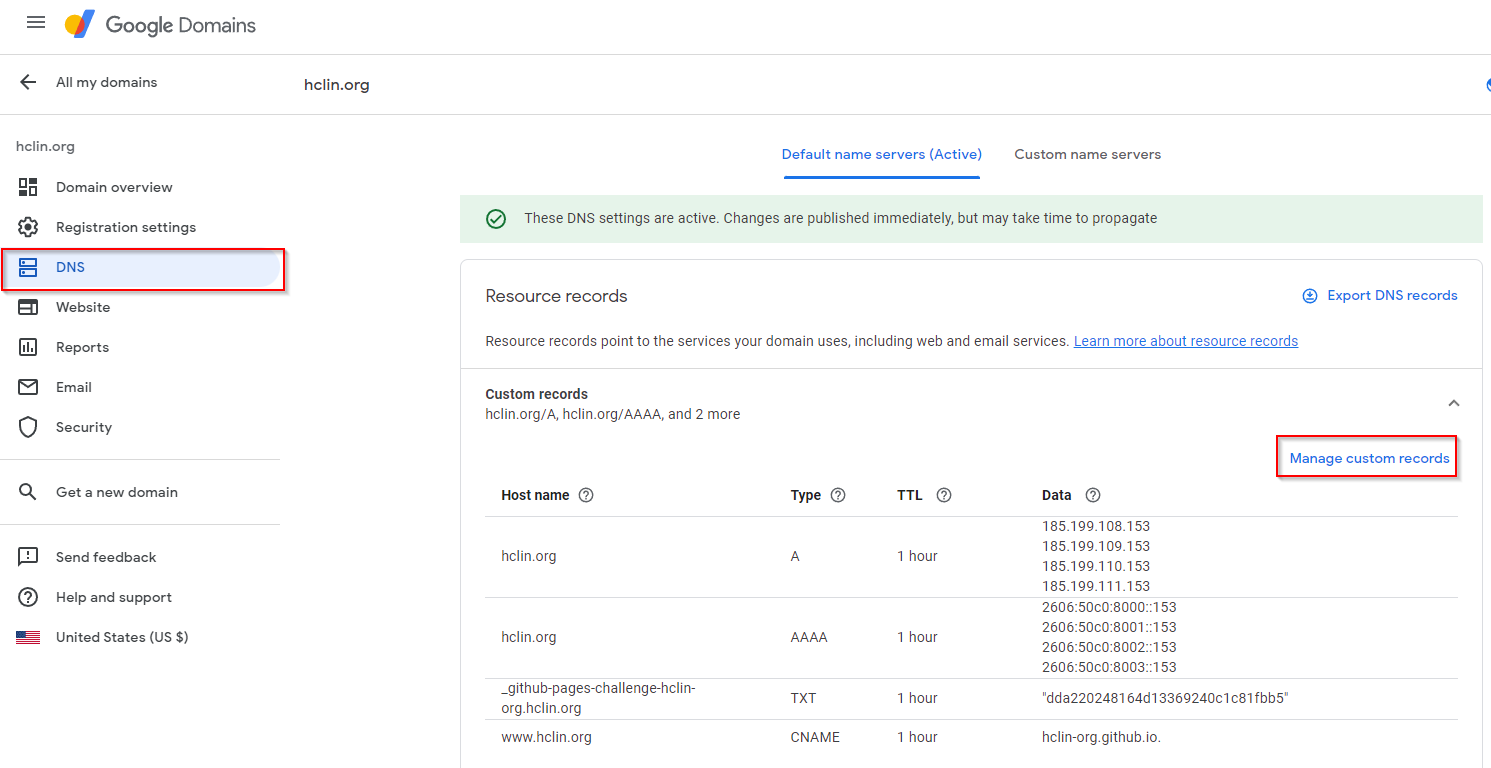
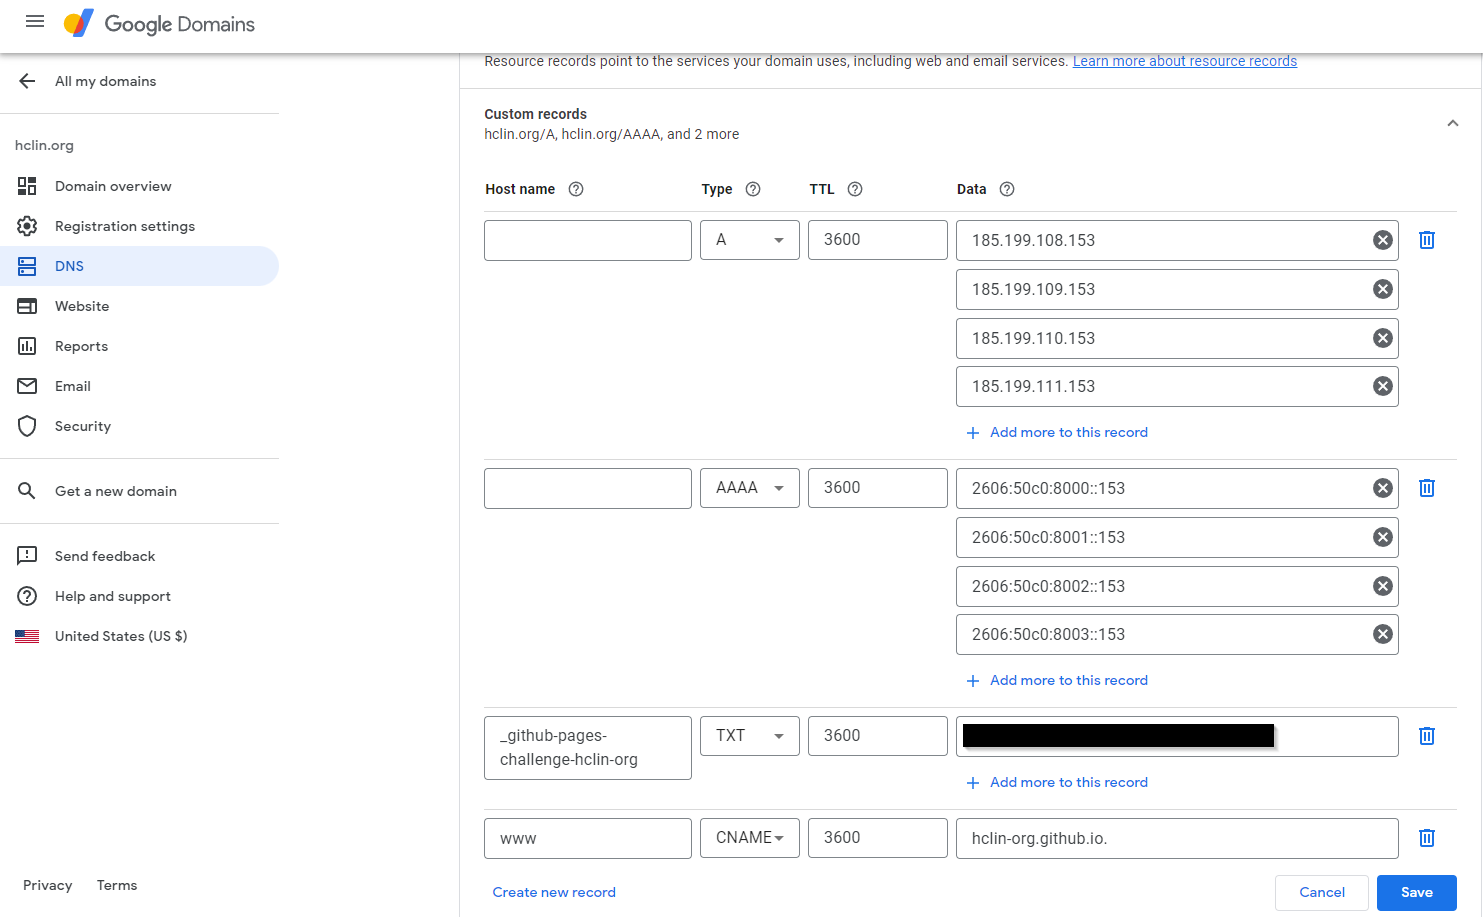
Blog updates

diff --git a/_posts/2022-06-07-setting up a personal academic website with a custom domain.md b/_posts/2022-06-07-setting up a personal academic website with a custom domain.md
@@ -4,14 +4,14 @@ title: Setting up a personal academic website with a custom domain
 description: "Setting up a personal academic website with a custom domain"
 ---
 
-I have been longed for my personal academic website to share my CV and an introduction to my research interests. However, I did not know what to do with this idea because it looked challenging to strike a balance between cost and performance. On the one hand, as a PhD student, I was hesitant on monthly subscription to hosting services. On the other hand, I do not feel confident to manage the technical parts of self-hosting and keep it from security vulnerabilities. This summer, I came across the idea of GitHub Pages together with static site generators. I decided to give it a try as it incurs minimal costs - in terms of money and time alike - and great performance. Also, it allows for custom domains. I based my experiment on the manual by [Jordi Pont-Tuset](https://jponttuset.cat/building-an-academic-website/). To configure my personal domain, I referred to the instructions of [GitHub Docs](https://docs.github.com/en/pages/configuring-a-custom-domain-for-your-github-pages-site/managing-a-custom-domain-for-your-github-pages-site) and [Google Domains](https://domains.google.com). Below, I will share some of the glitches I encountered and how I solved them, and I hope these may be helpful for you with troubleshooting when building a Jekyll website on GitHub Pages.
+I have longed for a personal academic website to share my CV and research interests. However, I did not know what to do with this idea because it looked challenging to balance cost and performance. On the one hand, as a PhD student, I hesitated to subscribe to hosting services, which is typically $5 to $10 per month, on top of $10 to $20 for a custom domain. On the other hand, I do not feel confident in managing the technical parts of self-hosting, particularly keeping my website from security vulnerabilities. This summer, I came across the idea of combining GitHub Pages, the free web hosting, with Jekyll, the static site generators. I decided to give it a try as it incurs minimal monetary and time costs and delivers great performance. Also, it allows for custom domains. I based my experiment on the manual by [Jordi Pont-Tuset](https://jponttuset.cat/building-an-academic-website/). To configure my personal domain, I referred to the instructions of [GitHub Docs](https://docs.github.com/en/pages/configuring-a-custom-domain-for-your-github-pages-site/managing-a-custom-domain-for-your-github-pages-site) and [Google Domains](https://domains.google.com). Below, I will share some of the glitches I encountered and how I solved them, and I hope these may be helpful for you with troubleshooting when building a Jekyll website on GitHub Pages.
 
 <br />
 ## Don't panic if the newly forked site is not working: it takes *commit*
 As Jordi suggested, I forked his website on GitHub, so I had the repository (Jekyll) needed to make my own website. However, the forked website did not work on my GitHub pages. I learned that any change, e.g., adding a space or a line in README.md, can "commit" the changes and render the website. After I made a random change to the README.md, my forked website started to run!
 
 ## Adding a custom domain does take multiple steps
-I wanted to use my domain name linking to my website hosted on GitHub Pages. First, I went to my Jekyll repository on GitHub and clicked **setting**. On the left panel, there was **Pages** in the category **Code and automation**. Click it, type your domain in the **Custom Domain**, and save the settings. GitHub suggested me make relevant changes in my domain registrar.
+I wanted to use my domain name linking to my website hosted on GitHub Pages. First, I went to my Jekyll repository on GitHub and clicked **setting**. On the left panel, there was **Pages** in the category **Code and automation**. Click it, type your domain in the **Custom Domain**, and save the settings. GitHub suggested I make relevant changes in my domain registrar.
 
 ![setting_domain_01](/images/setting_domain_01.png)
 
@@ -23,25 +23,23 @@ Later, I clicked **DNS** on the left panel and, subsequently, **Manage custom re
 
 ![setting_domain_03](/images/setting_domain_03.png)
 
-![setting_domain_04](/images/setting_domain_04.png)
-
-As I wanted to use apex domain and a www subdomain to reach my website, i.e., people could find my website at both *hclin.org* and *www.hclin.org*, I must add A and CNAME records to my DNS configuration. I also added the AAAA entry for IPv6 compatability. The purpose of the entries is to make my domain linked to the GitHub servers that house my website.
+As I wanted to use apex domain and a www subdomain to reach my website, i.e., people could find my website at both *hclin.org* and *www.hclin.org*, I must add A and CNAME records to my DNS configuration. I also added the AAAA entry for IPv6 compatibility. The purpose of the entries is to make my domain linked to the GitHub servers that house my website.
 
 For the apex domain, the host name was blank, and the type was *A*. I did not change the default TTL. In the data column, I entered the four IPs in respective entries:
-> 185.199.108.153
-> 185.199.109.153
-> 185.199.110.153
-> 185.199.111.153
+>> 185.199.108.153
+>> 185.199.109.153
+>> 185.199.110.153
+>> 185.199.111.153
 
-For the www subdomain, I entered *www* in the host name, and the type was *CNAME*. I did not change the default TTL, either. In the data column, I entered *<yourgithubid>.github.io*.
+For the www subdomain, I entered *www* in the host name, and the type was *CNAME*. I did not change the default TTL, either. In the data column, I entered *yourgithubid.github.io*.
 
-I also created another entry for IPv6 compatibility. This was similar to the previous type A setting. However, the type should be *AAAA*, instead. The data entries were the four IPv6 address: 
+I also created another entry for IPv6 compatibility. This was similar to the previous type A setting. However, the type should be *AAAA*, instead. The data entries were the four IPv6 addresses: 
 
-> 2606:50c0:8000::153
-> 2606:50c0:8001::153
-> 2606:50c0:8002::153
-> 2606:50c0:8003::153
+>> 2606:50c0:8000::153
+>> 2606:50c0:8001::153
+>> 2606:50c0:8002::153
+>> 2606:50c0:8003::153
 
-![setting_domain_05](/images/setting_domain_05.png)
+![setting_domain_05](/images/setting_domain_04.png)
 
-After saving these settings in Google Domains, I got back to the GitHub settings, and the custom domain worked. I also [verified my domain](https://docs.github.com/en/pages/configuring-a-custom-domain-for-your-github-pages-site/verifying-your-custom-domain-for-github-pages) and [enforce HTTPS](https://docs.github.com/en/pages/getting-started-with-github-pages/securing-your-github-pages-site-with-https) to enhance security.
+After saving these settings in Google Domains, I returned to the GitHub settings, and the custom domain worked. I also [verified my domain](https://docs.github.com/en/pages/configuring-a-custom-domain-for-your-github-pages-site/verifying-your-custom-domain-for-github-pages) and [enforce HTTPS](https://docs.github.com/en/pages/getting-started-with-github-pages/securing-your-github-pages-site-with-https) to enhance security.
